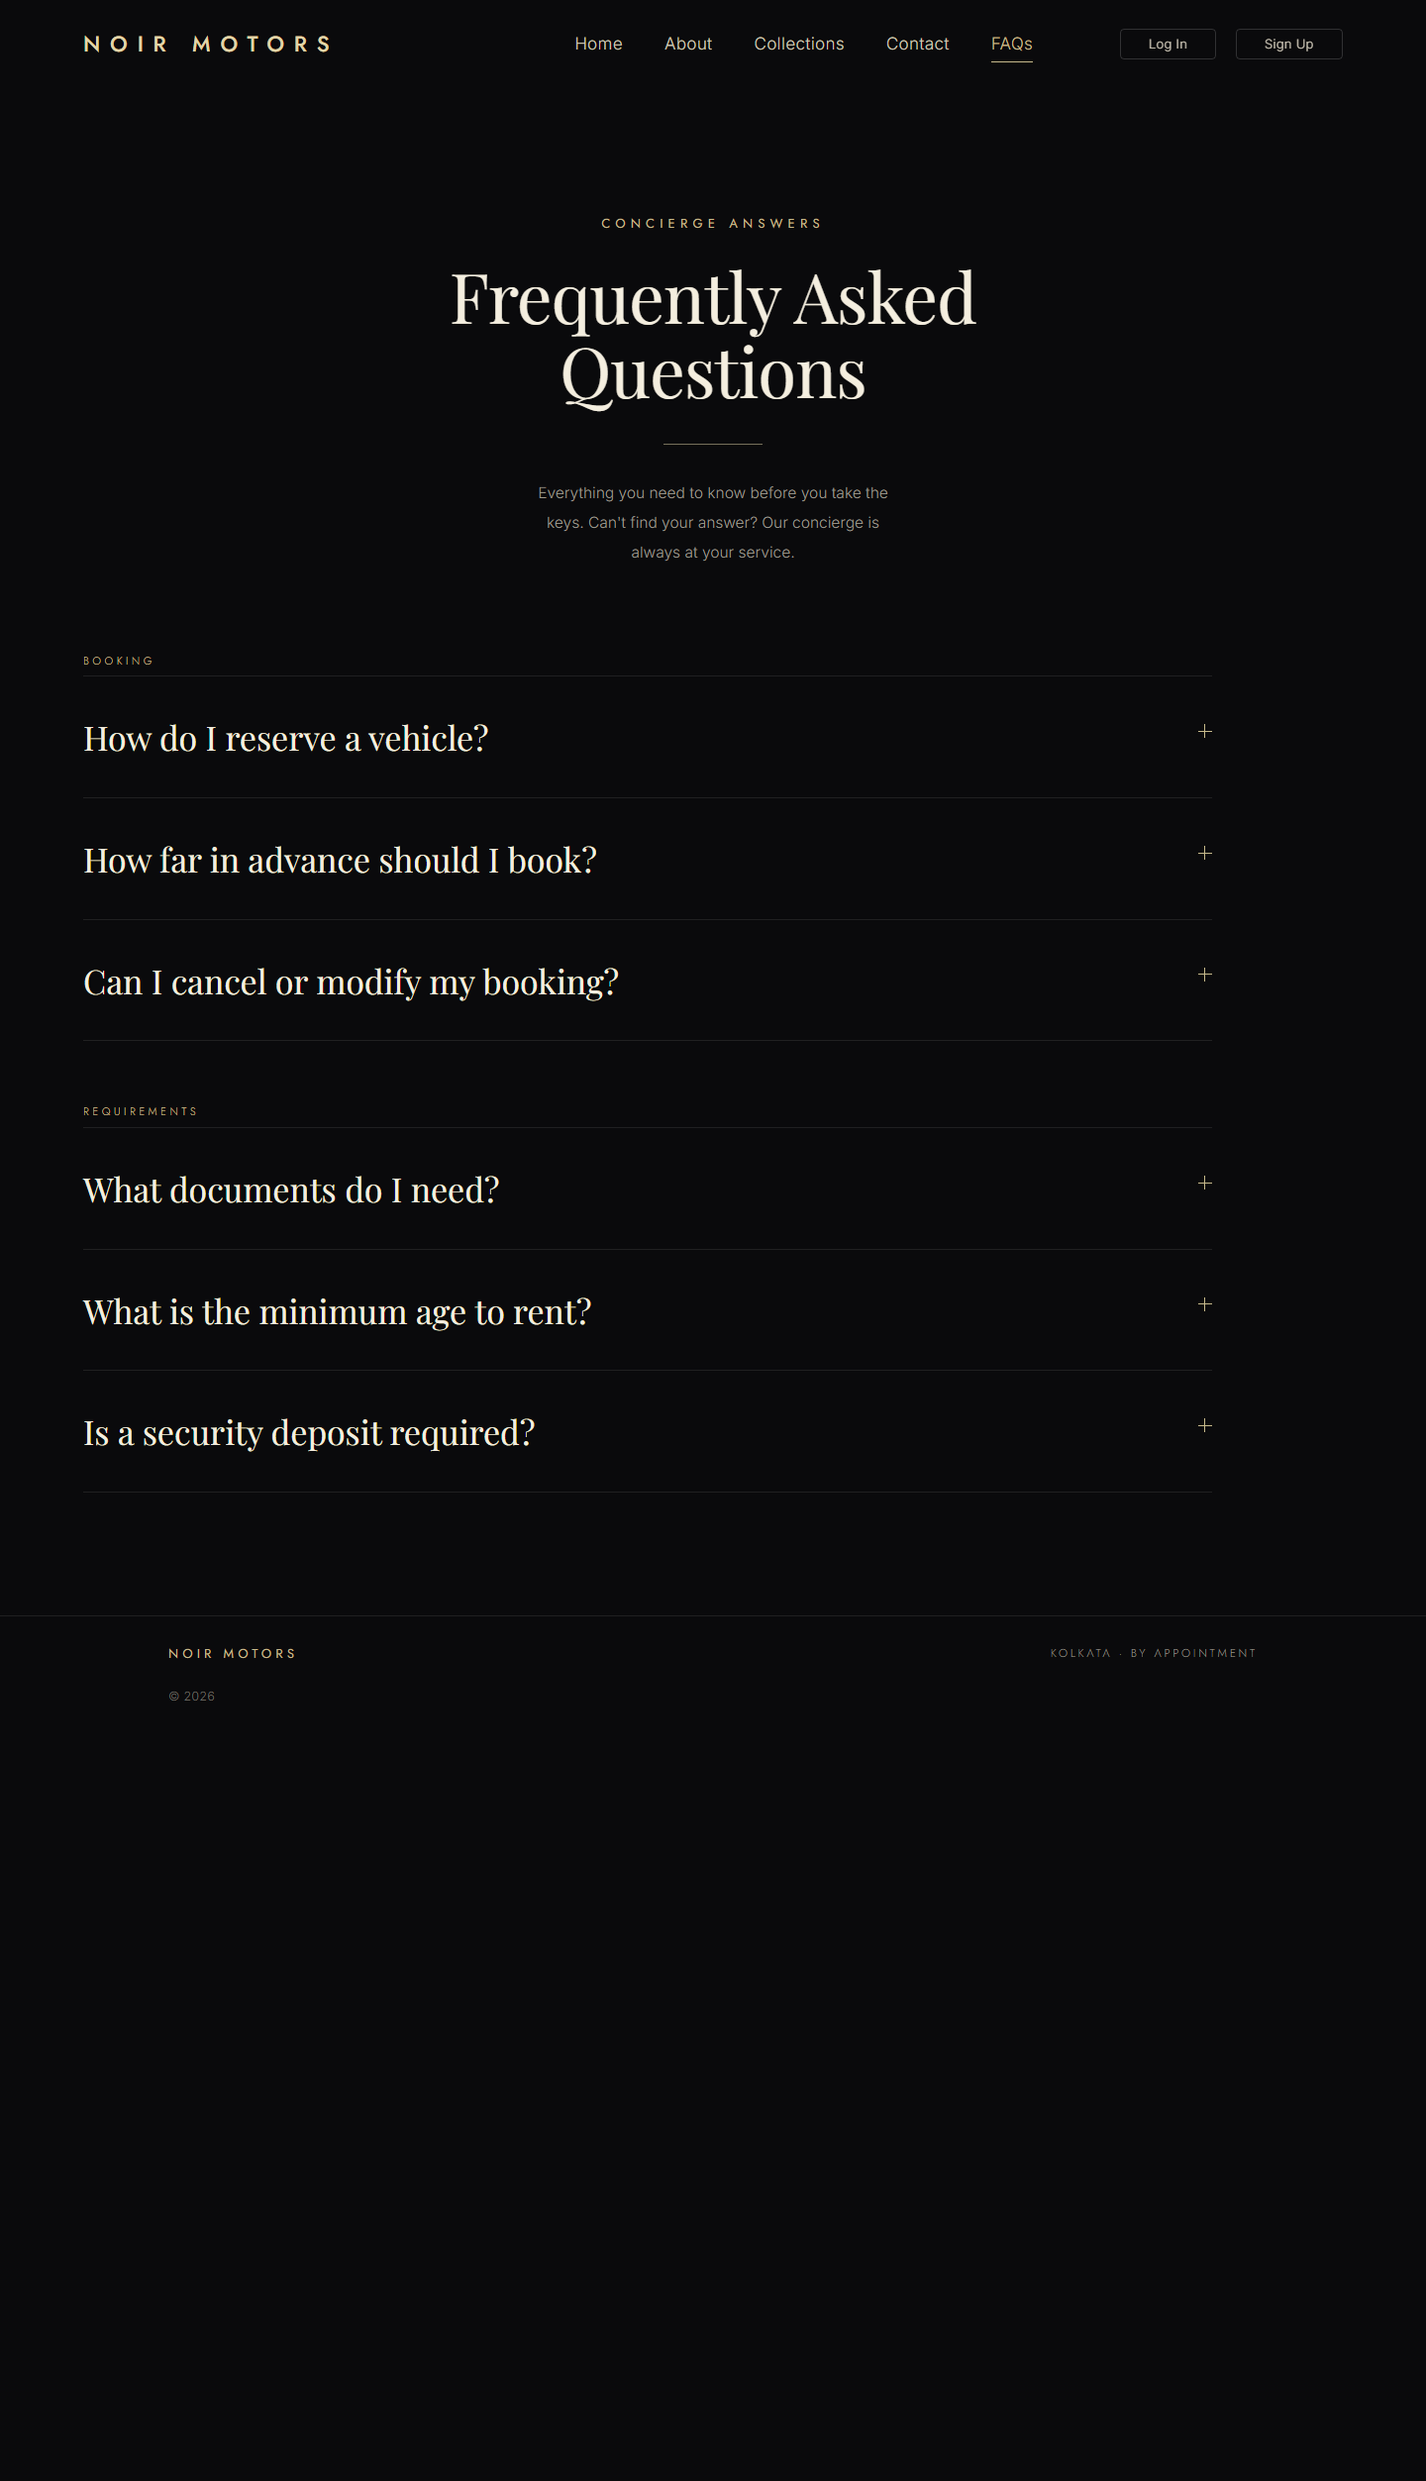
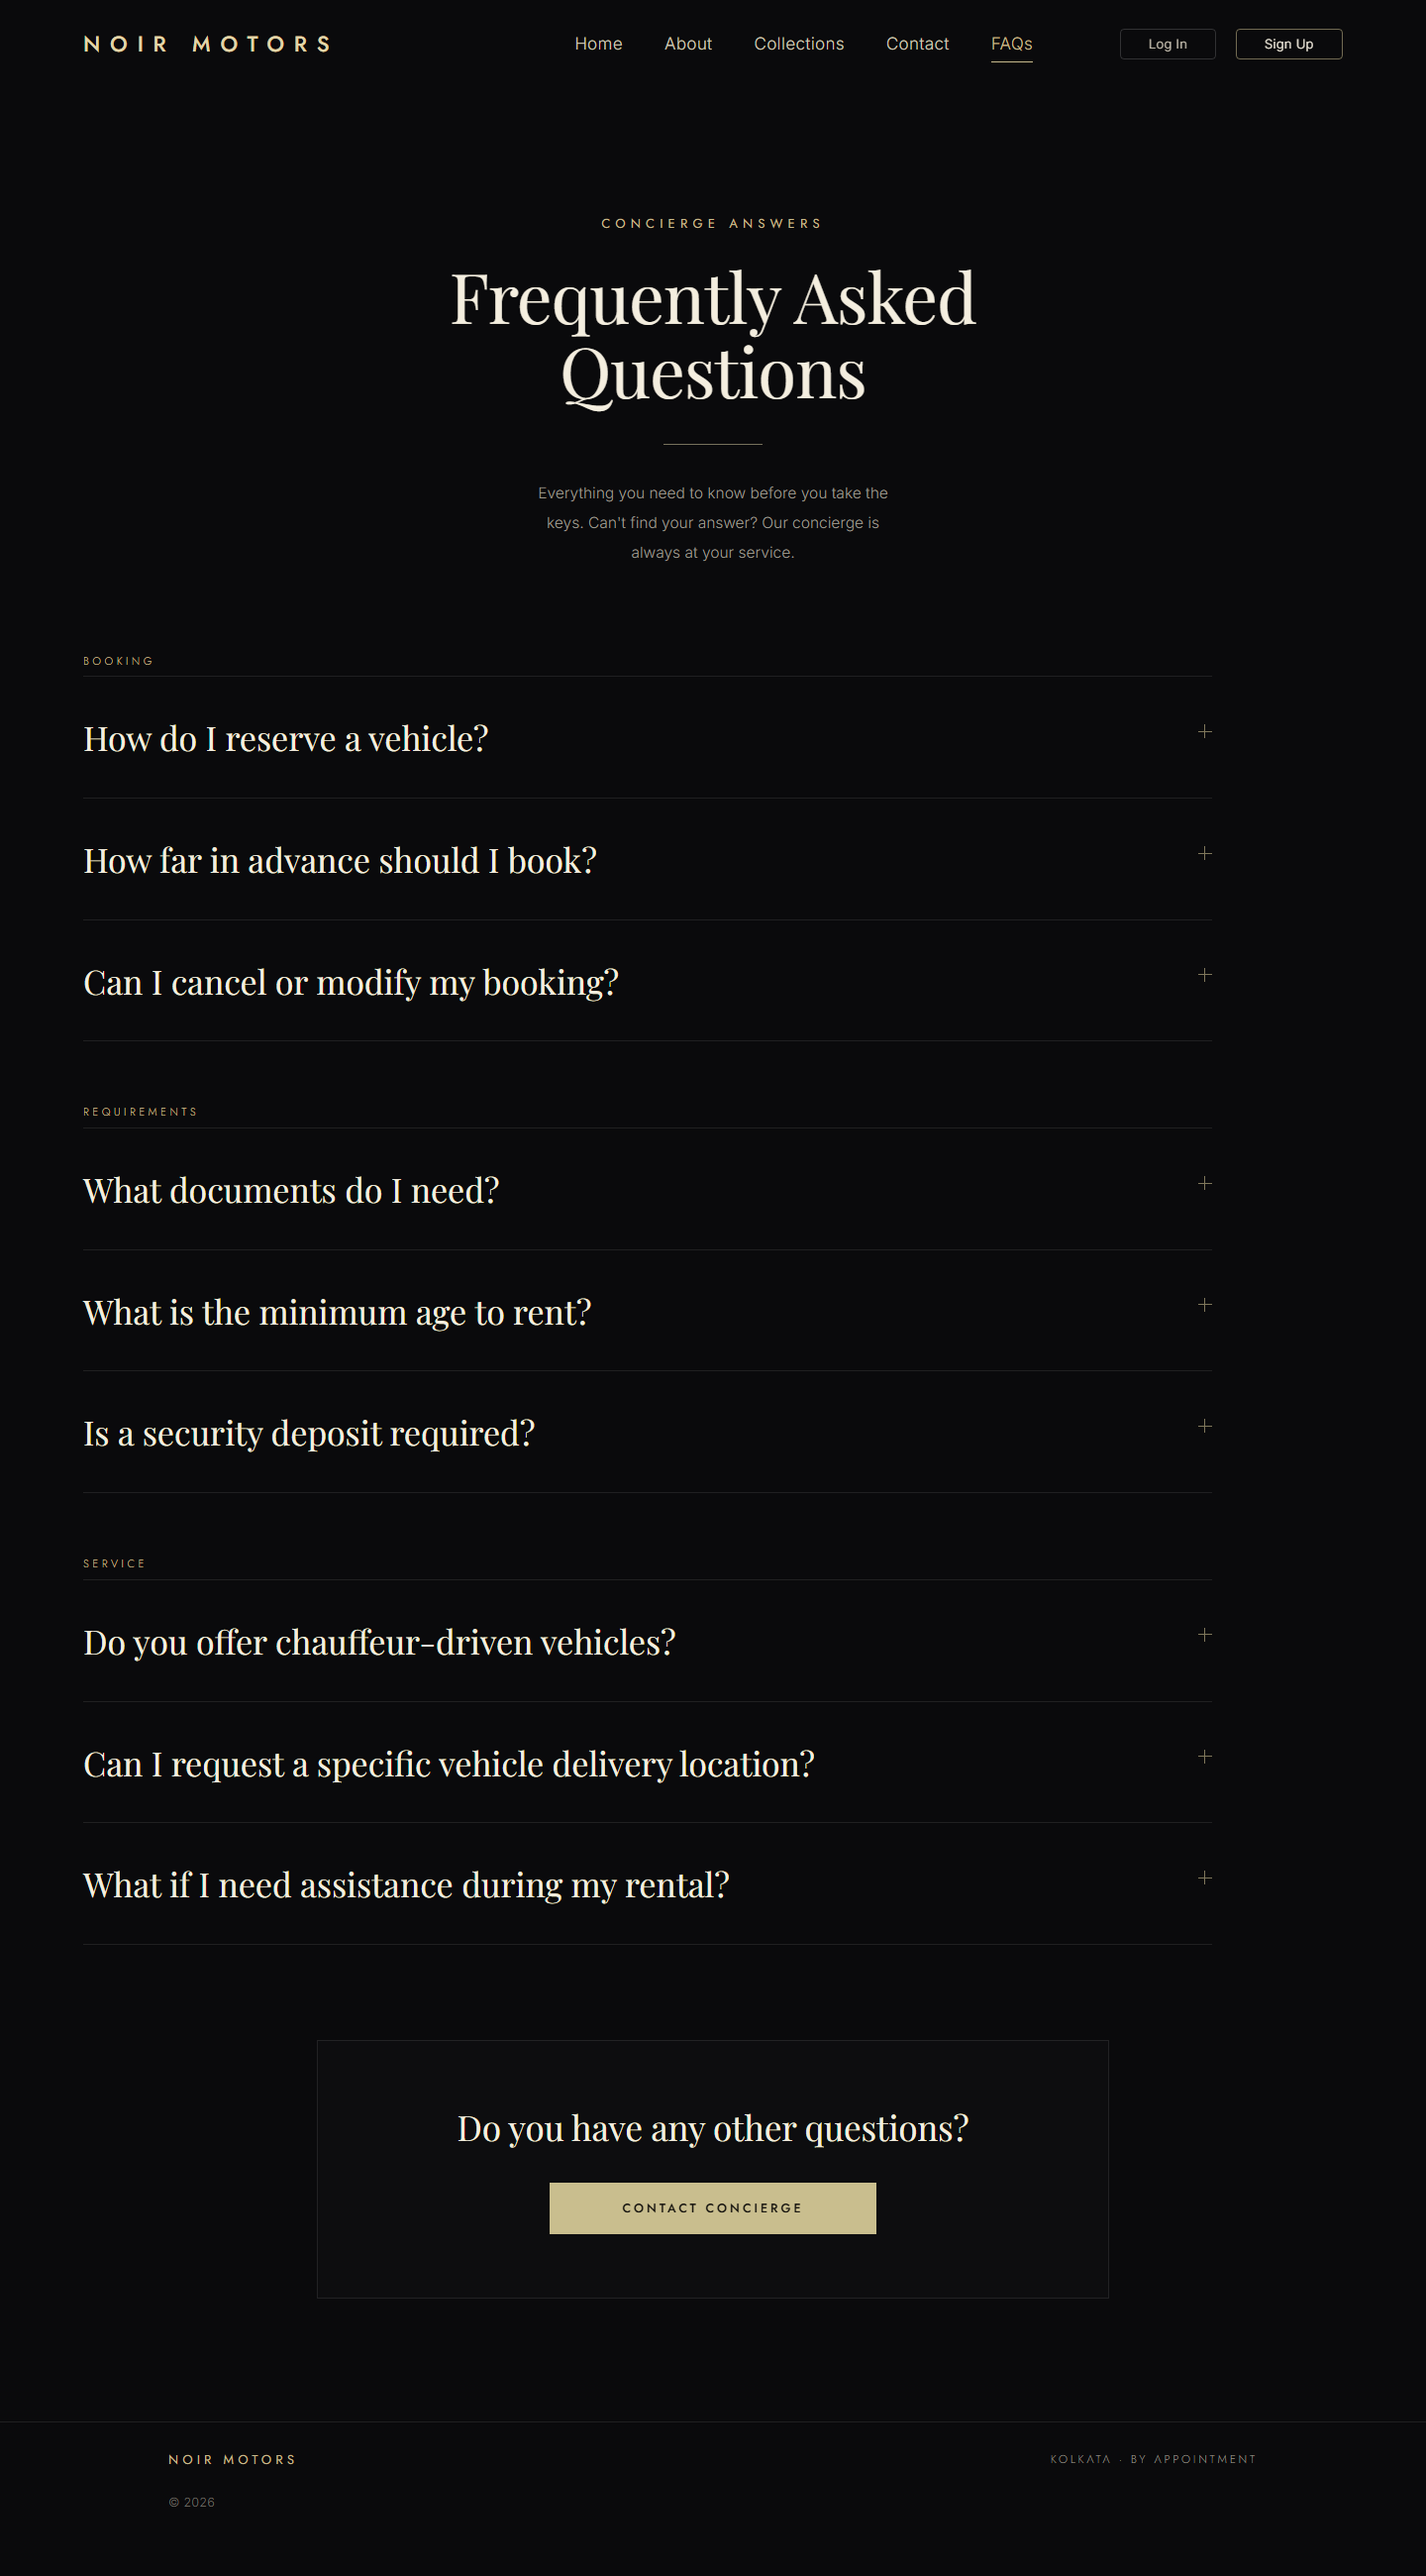
FAQ: add Service questions and closing CTA, match reference animations

diff --git a/css/styles.css b/css/styles.css
@@ -206,6 +206,16 @@ figure { margin: 0; }
 }
 .btn--sm:hover { color: var(--ink); }
 
+.btn--sm.btn--gold-line {
+  border-color: rgba(199, 186, 140, 0.55);
+  color: var(--ink);
+}
+.btn--sm.btn--gold-line:hover {
+  border-color: var(--gold);
+  background: rgba(199, 186, 140, 0.08);
+  color: var(--gold-bright);
+}
+
 .btn--outline-gold {
   border-color: rgba(199, 186, 140, 0.45);
   color: var(--gold);
@@ -354,7 +364,7 @@ body.nav-open .nav-toggle span:nth-child(3) { transform: translateY(-6px) rotate
 .hero__visual img {
   width: 100%;
   height: auto;
-  animation: hero-car-in 1.9s var(--ease) both;
+  animation: hero-car-in 1.3s var(--ease) both;
   -webkit-mask-image:
     linear-gradient(to right, transparent 0%, #000 17%),
     linear-gradient(to bottom, transparent 0%, #000 10%, #000 84%, transparent 100%);
@@ -366,8 +376,8 @@ body.nav-open .nav-toggle span:nth-child(3) { transform: translateY(-6px) rotate
 }
 
 @keyframes hero-car-in {
-  from { opacity: 0; transform: translate3d(24px, 12px, 0) scale(1.015); }
-  to   { opacity: 1; transform: none; }
+  from { opacity: 0; }
+  to   { opacity: 1; }
 }
 
 .hero__copy {
@@ -862,7 +872,7 @@ body.nav-open .nav-toggle span:nth-child(3) { transform: translateY(-6px) rotate
   color: var(--ink);
   transition: color 0.3s var(--ease);
 }
-.faq-q:hover { color: var(--gold-bright); }
+.faq-q:hover { color: #fff8e6; }
 
 .faq-icon {
   position: relative;
@@ -870,7 +880,8 @@ body.nav-open .nav-toggle span:nth-child(3) { transform: translateY(-6px) rotate
   width: 14px;
   height: 14px;
   margin-top: 10px;
-  transition: transform 0.4s var(--ease);
+  opacity: 0.62;
+  transition: transform 0.4s var(--ease), opacity 0.3s var(--ease);
 }
 .faq-icon::before,
 .faq-icon::after {
@@ -882,8 +893,12 @@ body.nav-open .nav-toggle span:nth-child(3) { transform: translateY(-6px) rotate
 .faq-icon::before { left: 0; top: 6.5px; width: 14px; height: 1px; }
 .faq-icon::after { top: 0; left: 6.5px; width: 1px; height: 14px; }
 
+.faq-q:hover .faq-icon,
+.faq-item.is-open .faq-icon { opacity: 1; }
+
+/* open: the vertical stroke becomes the horizontal minus */
 .faq-item.is-open .faq-icon { transform: rotate(90deg); }
-.faq-item.is-open .faq-icon::after { opacity: 0; }
+.faq-item.is-open .faq-icon::before { opacity: 0; }
 
 .faq-a {
   display: grid;
@@ -899,6 +914,40 @@ body.nav-open .nav-toggle span:nth-child(3) { transform: translateY(-6px) rotate
   font-size: 15px;
   line-height: 1.85;
   color: #a09b90;
+  opacity: 0;
+  transition: opacity 0.4s var(--ease);
+}
+.faq-item.is-open .faq-a p { opacity: 1; transition-delay: 0.06s; }
+
+/* ---------- closing CTA ---------- */
+.faq-cta {
+  max-width: 800px;
+  margin: clamp(56px, 7vw, 96px) auto 0;
+  padding: clamp(40px, 4.6vw, 64px) clamp(22px, 4vw, 56px);
+  border: 1px solid var(--line);
+  background: rgba(255, 255, 255, 0.014);
+  text-align: center;
+}
+
+.faq-cta h2 {
+  font-size: clamp(24px, 2.5vw, 35px);
+  font-weight: 400;
+  line-height: 1.3;
+  color: var(--ink);
+}
+
+.faq-cta .btn {
+  margin-top: clamp(24px, 2.6vw, 34px);
+  min-width: 330px;
+  height: 52px;
+  padding: 0 34px;
+  font-size: 12.5px;
+  letter-spacing: 0.24em;
+  border-radius: 0;
+}
+
+@media (max-width: 560px) {
+  .faq-cta .btn { min-width: 0; width: 100%; }
 }
 
 /* ==========================================================================
@@ -954,17 +1003,10 @@ body.nav-open .nav-toggle span:nth-child(3) { transform: translateY(-6px) rotate
    ========================================================================== */
 [data-reveal] {
   opacity: 0;
-  transform: translateY(26px);
-  filter: blur(7px);
-  transition: opacity 0.95s var(--ease), transform 0.95s var(--ease),
-              filter 0.95s var(--ease);
+  transition: opacity 0.78s var(--ease);
   transition-delay: var(--reveal-delay, 0ms);
 }
-[data-reveal].is-in {
-  opacity: 1;
-  transform: none;
-  filter: blur(0);
-}
+[data-reveal].is-in { opacity: 1; }
 
 @media (prefers-reduced-motion: reduce) {
   *,
@@ -974,7 +1016,7 @@ body.nav-open .nav-toggle span:nth-child(3) { transform: translateY(-6px) rotate
     animation-iteration-count: 1 !important;
     transition-duration: 0.001ms !important;
   }
-  [data-reveal] { opacity: 1; transform: none; }
+  [data-reveal] { opacity: 1; }
 }
 
 /* ==========================================================================

diff --git a/faq.html b/faq.html
@@ -116,6 +116,45 @@
         </div>
       </div>
 
+      <div class="faq-group">
+        <p class="faq-group__title">Service</p>
+
+        <div class="faq-item">
+          <button class="faq-q" aria-expanded="false">
+            <span>Do you offer chauffeur-driven vehicles?</span>
+            <span class="faq-icon" aria-hidden="true"></span>
+          </button>
+          <div class="faq-a"><div>
+            <p>Yes. Every car in the collection can be supplied with a professional chauffeur, billed hourly or by the day. Tell us the occasion and we will match you with a driver who knows the city and the route.</p>
+          </div></div>
+        </div>
+
+        <div class="faq-item">
+          <button class="faq-q" aria-expanded="false">
+            <span>Can I request a specific vehicle delivery location?</span>
+            <span class="faq-icon" aria-hidden="true"></span>
+          </button>
+          <div class="faq-a"><div>
+            <p>You can. Delivery and collection are complimentary within Kolkata, and we will bring the car to any address in West Bengal. Airport handovers, hotel arrivals and out-of-city deliveries are quoted on request.</p>
+          </div></div>
+        </div>
+
+        <div class="faq-item">
+          <button class="faq-q" aria-expanded="false">
+            <span>What if I need assistance during my rental?</span>
+            <span class="faq-icon" aria-hidden="true"></span>
+          </button>
+          <div class="faq-a"><div>
+            <p>Call the concierge line at any hour. Every rental includes 24/7 roadside assistance, a replacement vehicle wherever possible, and a direct line to the team that prepared your car.</p>
+          </div></div>
+        </div>
+      </div>
+
+    </div>
+
+    <div class="faq-cta" data-reveal>
+      <h2>Do you have any other questions?</h2>
+      <a class="btn btn--gold" href="contact.html">Contact Concierge</a>
     </div>
   </section>
 

diff --git a/js/main.js b/js/main.js
@@ -420,7 +420,7 @@
 
         var signup = document.createElement("button");
         signup.type = "button";
-        signup.className = "btn btn--sm";
+        signup.className = "btn btn--sm btn--gold-line";
         signup.setAttribute("data-auth", "signup");
         signup.textContent = "Sign Up";
 

diff --git a/README.md b/README.md
@@ -25,7 +25,8 @@ Shared header/footer are duplicated in each file on purpose (no JS dependency fo
 - sticky header gets a blurred background on scroll
 - hamburger menu under 1024px (Log In / Sign Up included)
 - **client access dialog** — Log In / Sign Up open a modal (see `assets/refernaces/image.png`)
-- scroll reveal: fade + rise + blur-out, staggered per element
+- scroll reveal: pure opacity fade (no movement), staggered per element, matching the reference recording
+- FAQ accordion: smooth height expansion with the answer fading in; `+` becomes `−` on open
 - hero car parallax on scroll (desktop only)
 - smooth in-page anchor scrolling (`prefers-reduced-motion` respected)
 - collection filters (All / Saloon / Grand Tourer / Supercar / SUV)
